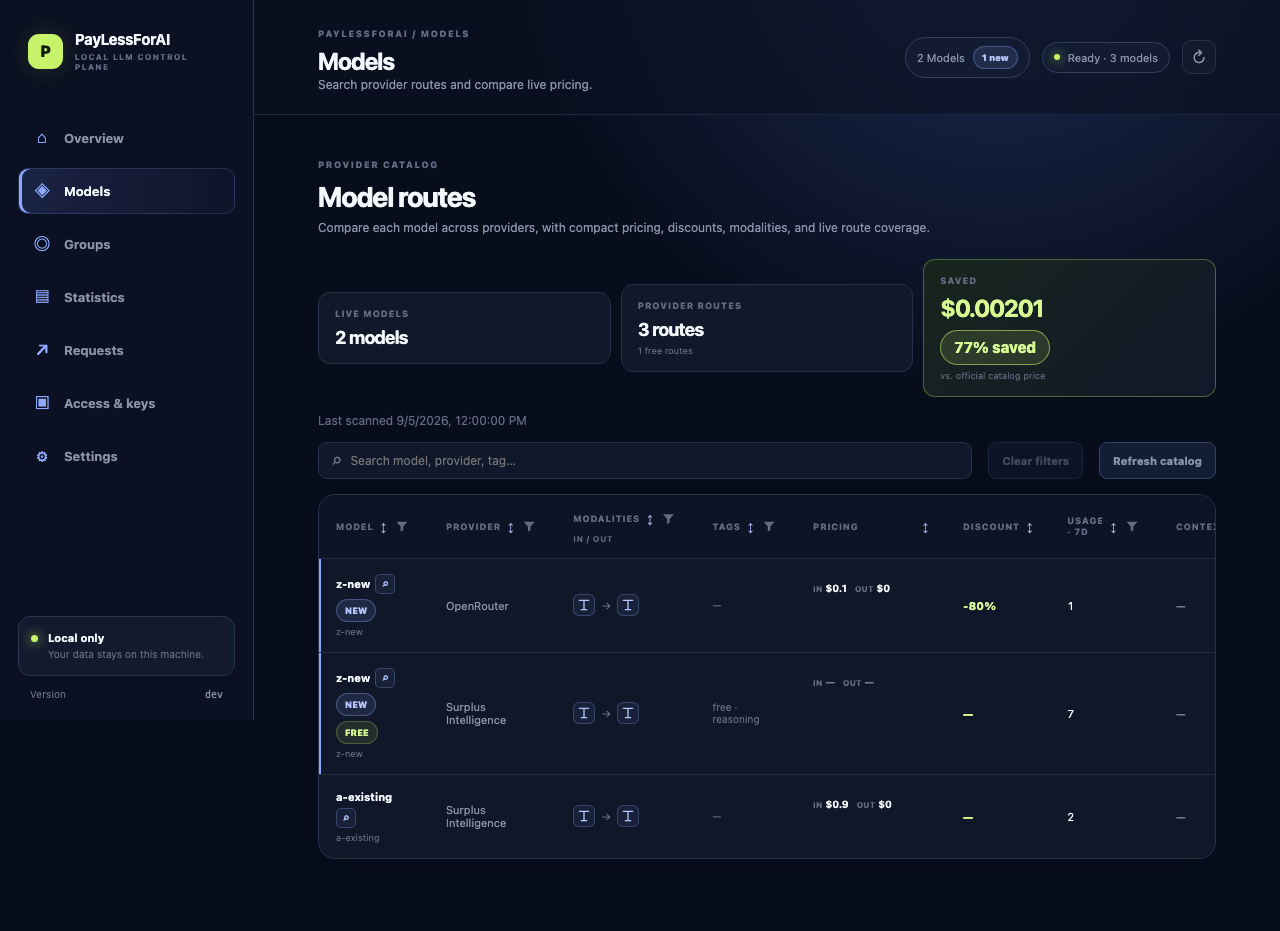
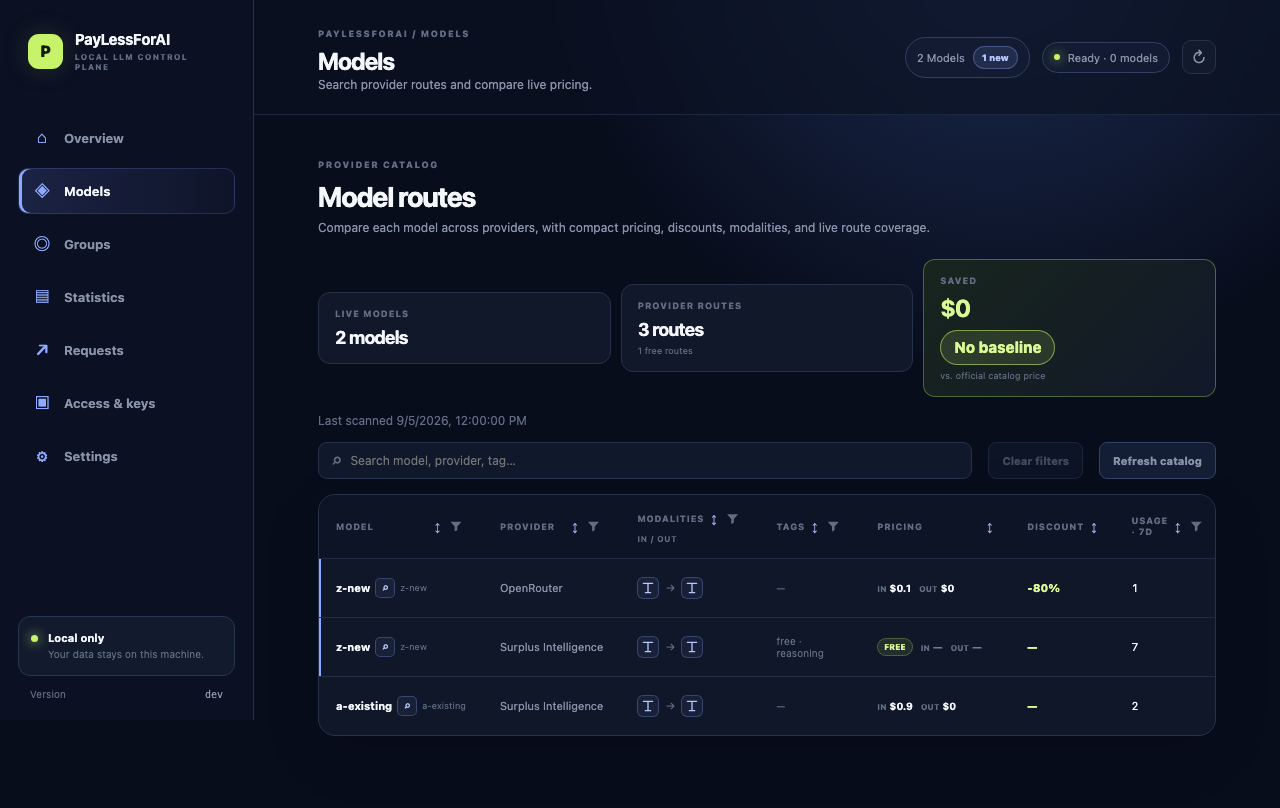
fix: compact model catalog rows

diff --git a/internal/web/static/app.js b/internal/web/static/app.js
@@ -401,11 +401,11 @@
   function updateModelFilterIndicators() { $$('.table-filter').forEach((button) => { const key = button.dataset.filterKey; const count = key === 'modalities' ? state.modelFilters.input.length + state.modelFilters.output.length : key === 'usage' ? Number(state.modelFilters.usage.min != null) + Number(state.modelFilters.usage.max != null) : state.modelFilters[key]?.length || 0; button.classList.toggle('active', count > 0); const badge = button.querySelector('.filter-count'); if (badge) { badge.textContent = count || ''; badge.hidden = count === 0; } }); const clear = $('#models-clear-filters'); if (clear) clear.disabled = !(['model', 'provider', 'tags', 'input', 'output'].some((key) => state.modelFilters[key].length) || state.modelFilters.usage.min != null || state.modelFilters.usage.max != null); }
   function clearModelFilters() { ['model', 'provider', 'tags', 'input', 'output'].forEach((key) => { state.modelFilters[key] = []; }); state.modelFilters.usage = { min: null, max: null }; closeModelFilter(); updateModelFilterIndicators(); renderModels(); }
   function appendCompactPrice(container, route) {
-    const line = document.createElement('div'); line.className = 'compact-price-line'; const part = (key, label) => { const wrapper = document.createElement('span'); wrapper.className = 'compact-price-part'; const name = document.createElement('small'); name.textContent = label; const current = Number(route.pricing?.[key] || 0); const official = Number(route.official_pricing?.[key] || 0); if (!route.price_available) { wrapper.append(name, document.createTextNode('—')); return wrapper; } if (official > current) { const original = document.createElement('s'); original.textContent = formatUSDPerMillion(official); const arrow = document.createElement('span'); arrow.className = 'price-arrow'; arrow.textContent = '→'; const discounted = document.createElement('strong'); discounted.textContent = formatUSDPerMillion(current); wrapper.append(name, original, arrow, discounted); } else { const value = document.createElement('strong'); value.textContent = formatUSDPerMillion(current); wrapper.append(name, value); } return wrapper; }; line.append(part('input', 'in'), part('output', 'out')); container.append(line);
+    const line = document.createElement('div'); line.className = 'compact-price-line'; const part = (key, label) => { const wrapper = document.createElement('span'); wrapper.className = 'compact-price-part'; const name = document.createElement('small'); name.textContent = label; const current = Number(route.pricing?.[key] || 0); const official = Number(route.official_pricing?.[key] || 0); if (!route.price_available) { wrapper.append(name, document.createTextNode('—')); return wrapper; } if (official > current) { const original = document.createElement('s'); original.textContent = formatUSDPerMillion(official); const arrow = document.createElement('span'); arrow.className = 'price-arrow'; arrow.textContent = '→'; const discounted = document.createElement('strong'); discounted.textContent = formatUSDPerMillion(current); wrapper.append(name, original, arrow, discounted); } else { const value = document.createElement('strong'); value.textContent = formatUSDPerMillion(current); wrapper.append(name, value); } return wrapper; }; if (route.free) { const badge = document.createElement('span'); badge.className = 'badge free price-free'; badge.textContent = 'FREE'; badge.title = 'Free route'; line.append(badge); } line.append(part('input', 'in'), part('output', 'out')); container.append(line);
   }
   function renderModels() {
     ensureCatalogHeaders(); const body = $('#models-table-body'); const empty = $('#models-empty'); if (!body) return; const rows = filteredCatalogRows(); body.replaceChildren(); const uniqueModels = new Set(state.models.map((route) => route.model)); const visibleModels = new Set(rows.map((route) => route.model)); const newCount = new Set(state.models.filter((route) => route.is_new).map((route) => route.model)).size; setText('#topbar-model-count', `${formatNumber(uniqueModels.size)} Models`); const newCountBadge = $('#topbar-new-model-count'); newCountBadge.textContent = `${newCount} new`; newCountBadge.hidden = newCount === 0; setText('#catalog-count', `${formatNumber(visibleModels.size)} model${visibleModels.size === 1 ? '' : 's'}`); setText('#catalog-free-count', `${formatNumber(rows.length)} routes`); setText('#catalog-free-note', `${formatNumber(rows.filter((route) => route.free).length)} free routes`); setText('#models-saved', formatUSD(state.summary?.saved_cost_pico_usd)); setText('#models-saved-percent', state.summary?.saved_percent_bps == null ? 'No baseline' : `${discountPercent(state.summary.saved_percent_bps)} saved`);
-    rows.forEach((routeModel) => { const row = document.createElement('tr'); const model = appendTextCell(row, ''); const titleLine = document.createElement('div'); titleLine.className = 'model-title-line'; const strong = document.createElement('strong'); strong.textContent = routeModel.name || routeModel.model; const quick = document.createElement('button'); quick.type = 'button'; quick.className = 'model-quick-filter'; quick.dataset.quickModelFilter = routeModel.model; quick.setAttribute('aria-label', `Show all providers for ${routeModel.name || routeModel.model}`); quick.title = 'Show all providers for this model'; quick.textContent = '⌕'; titleLine.append(strong, quick); model.append(titleLine); const small = document.createElement('small'); small.textContent = routeModel.model; model.append(small); if (routeModel.is_new) { const badge = document.createElement('span'); badge.className = 'badge new-model'; badge.textContent = 'NEW'; const added = routeModel.added_at ? new Date(routeModel.added_at) : null; const label = added && !Number.isNaN(added.getTime()) ? `Added ${String(added.getDate()).padStart(2, '0')}.${String(added.getMonth() + 1).padStart(2, '0')}` : 'Added recently'; badge.title = label; badge.dataset.tooltip = label; badge.setAttribute('aria-label', label); titleLine.append(document.createTextNode(' '), badge); row.classList.add('new-model-row'); } if (routeModel.free) { const badge = document.createElement('span'); badge.className = 'badge free'; badge.textContent = 'FREE'; titleLine.append(document.createTextNode(' '), badge); }
+    rows.forEach((routeModel) => { const row = document.createElement('tr'); const model = appendTextCell(row, ''); const titleLine = document.createElement('div'); titleLine.className = 'model-title-line'; const strong = document.createElement('strong'); strong.textContent = routeModel.name || routeModel.model; const quick = document.createElement('button'); quick.type = 'button'; quick.className = 'model-quick-filter'; quick.dataset.quickModelFilter = routeModel.model; quick.setAttribute('aria-label', `Show all providers for ${routeModel.name || routeModel.model}`); quick.title = 'Show all providers for this model'; quick.textContent = '⌕'; titleLine.append(strong, quick); const small = document.createElement('small'); small.textContent = routeModel.model; titleLine.append(small); model.append(titleLine); if (routeModel.is_new) { row.classList.add('new-model-row'); const added = routeModel.added_at ? new Date(routeModel.added_at) : null; const label = added && !Number.isNaN(added.getTime()) ? `Added ${String(added.getDate()).padStart(2, '0')}.${String(added.getMonth() + 1).padStart(2, '0')}` : 'Added recently'; row.title = label; row.setAttribute('aria-label', `${routeModel.name || routeModel.model}, ${label}`); }
       const provider = appendTextCell(row, providerName(routeModel.provider)); provider.className = 'provider-cell'; const modalities = appendTextCell(row, ''); modalities.append(modalityDisplay(routeModel.input_modalities || [], routeModel.output_modalities || [])); modalities.className = 'modality-cell'; const tags = appendTextCell(row, routeTags(routeModel).join(' · ') || '—'); tags.className = 'tag-cell'; const pricing = appendTextCell(row, ''); pricing.className = 'pricing-cell'; appendCompactPrice(pricing, routeModel); pricing.title = 'Input / output per 1M tokens; crossed-out values are reference prices'; const discount = appendTextCell(row, ''); discount.className = 'discount-cell'; discount.textContent = routeModel.discount_percent_bps == null ? '—' : `-${discountPercent(routeModel.discount_percent_bps)}`; discount.title = routeModel.discount_percent_bps == null ? 'No reference baseline' : `Input ${discountPercent(routeModel.discount_input_percent_bps)} · output ${discountPercent(routeModel.discount_output_percent_bps)}`; const usage = appendTextCell(row, formatNumber(routeModel.usage_7d)); usage.className = 'usage-cell'; usage.title = 'Requests attributed to this provider route in the last 7 days'; const context = appendTextCell(row, routeModel.context_length ? formatCompact(routeModel.context_length) : '—'); context.title = routeModel.context_length ? `${formatNumber(routeModel.context_length)} tokens` : ''; body.append(row); }); empty.hidden = rows.length > 0; updateModelSortIndicators(); updateModelFilterIndicators();
   }
   function quickFilterModel(modelID) { const search = $('#models-search'); if (search) search.value = ''; clearModelFilters(); state.modelFilters.model = [modelID]; renderModels(); }

diff --git a/internal/web/static/style.css b/internal/web/static/style.css
@@ -590,7 +590,10 @@ code { display: inline-block; max-width: 100%; overflow: hidden; padding: 10px 1
 .badge.new-model { position: relative; cursor: help; }
 .badge.new-model::after { content: attr(data-tooltip); position: absolute; left: 50%; bottom: calc(100% + 7px); z-index: 30; padding: 5px 7px; border: 1px solid #3a4c73; border-radius: 6px; color: var(--ink); background: #0b1325; box-shadow: 0 8px 20px #0007; font-size: 10px; font-weight: 700; line-height: 1; white-space: nowrap; opacity: 0; pointer-events: none; transform: translate(-50%, 4px); transition: opacity .12s ease, transform .12s ease; }
 .badge.new-model:hover::after, .badge.new-model:focus-visible::after { opacity: 1; transform: translate(-50%, 0); }
-.model-title-line { display: flex; align-items: center; gap: 5px; flex-wrap: wrap; }
+.model-title-line { display: flex; align-items: center; gap: 5px; flex-wrap: nowrap; white-space: nowrap; }
+.model-title-line strong, .model-title-line small { display: inline; margin: 0; }
+.provider-cell { white-space: nowrap; }
+.price-free { flex: 0 0 auto; padding: 3px 6px; font-size: 8px; }
 .model-quick-filter { display: inline-grid; place-items: center; width: 20px; height: 20px; padding: 0; border: 1px solid #8ea9ff45; border-radius: 5px; color: var(--blue-bright); background: #8ea9ff12; cursor: pointer; font-size: 12px; line-height: 1; }
 .model-quick-filter:hover, .model-quick-filter:focus-visible { border-color: var(--blue-bright); background: #8ea9ff28; outline: 0; }
 .discount-cell, .usage-cell { white-space: nowrap; }

diff --git a/test/e2e/catalog.spec.ts b/test/e2e/catalog.spec.ts
@@ -16,10 +16,12 @@ test('new models lead the table and the top-right count opens the catalog', asyn
   await page.locator('#topbar-models').click();
   await expect(page.locator('[data-view-panel="models"]')).toBeVisible();
   await expect(page.locator('#models-table-body tr').first()).toContainText('z-new');
-  await expect(page.locator('#models-table-body tr').first().locator('.new-model')).toHaveText('NEW');
-  const freeRow = page.locator('#models-table-body tr').filter({ has: page.locator('.badge.free') });
+  await expect(page.locator('#models-table-body .new-model')).toHaveCount(0);
+  await expect(page.locator('#models-table-body .new-model-row')).toHaveCount(2);
+  const freeRow = page.locator('#models-table-body tr').filter({ has: page.locator('.price-free') });
   await expect(freeRow).toHaveCount(1);
-  await expect(freeRow.locator('.badge.free')).toHaveText('FREE');
+  await expect(freeRow.locator('.price-free')).toHaveText('FREE');
+  await expect(freeRow.locator('td').nth(0)).not.toContainText('FREE');
   await expect(freeRow.locator('td').nth(1)).not.toContainText('FREE');
   await expect(freeRow.locator('.tag-cell')).toContainText('free');
   await expect(page.locator('[data-view-panel="models"] thead')).toContainText('Pricing');
